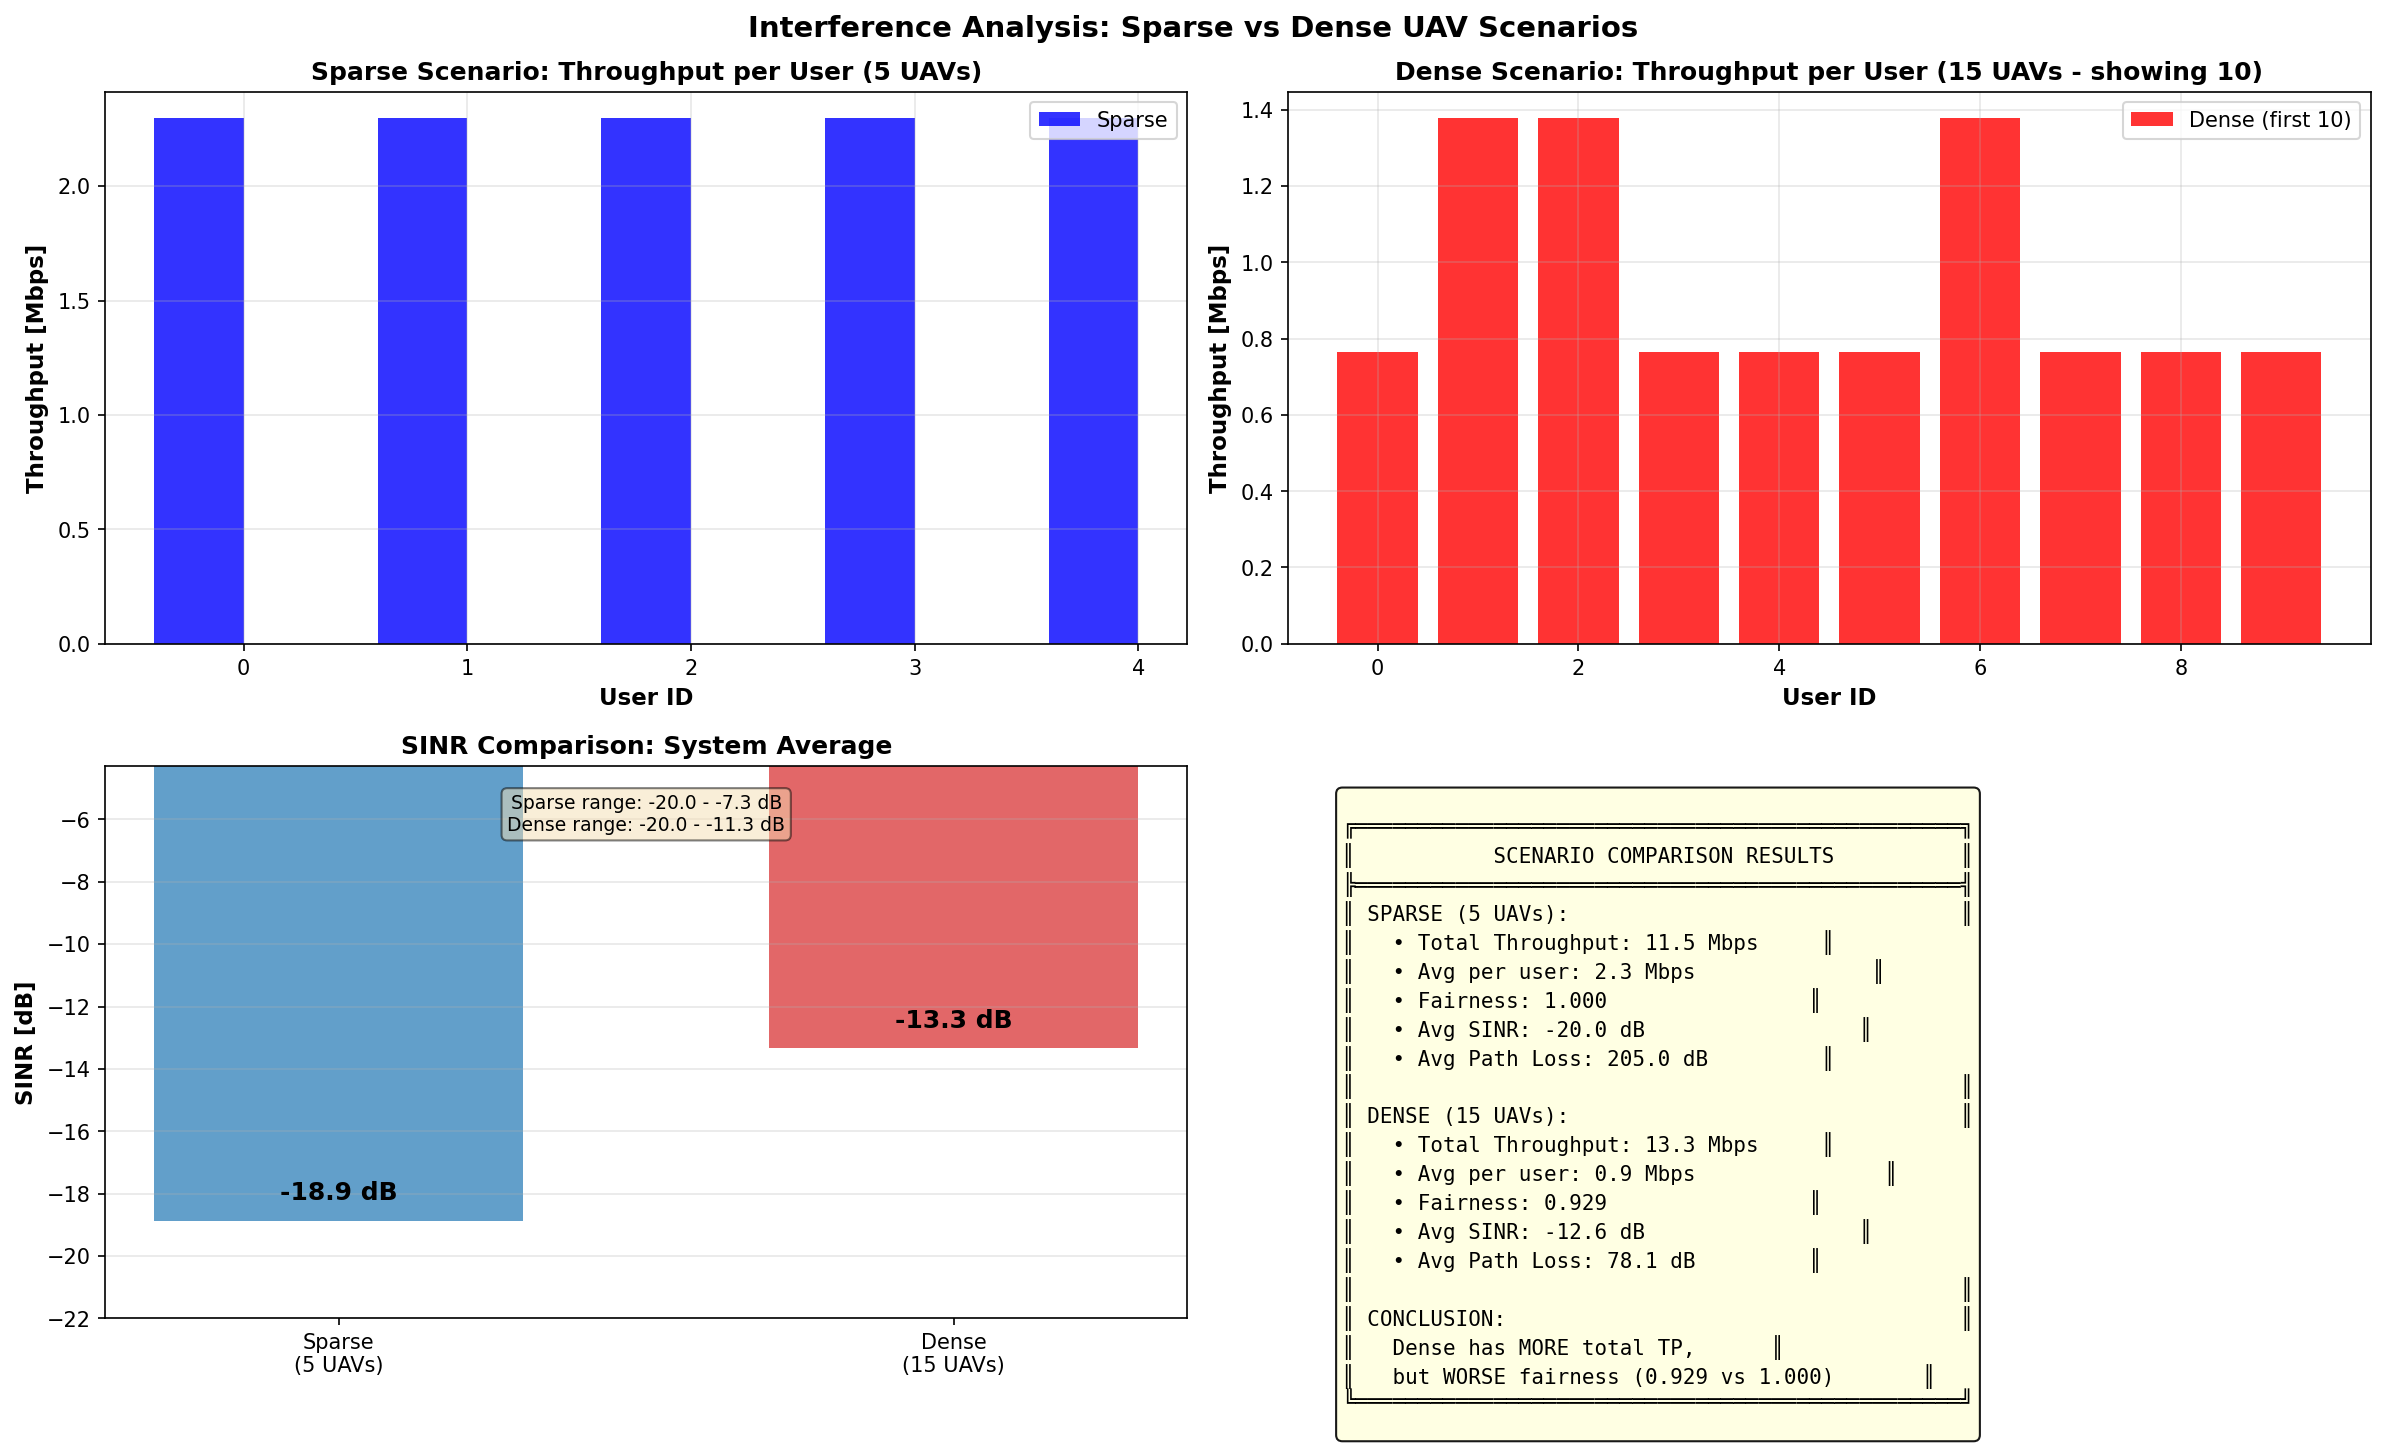
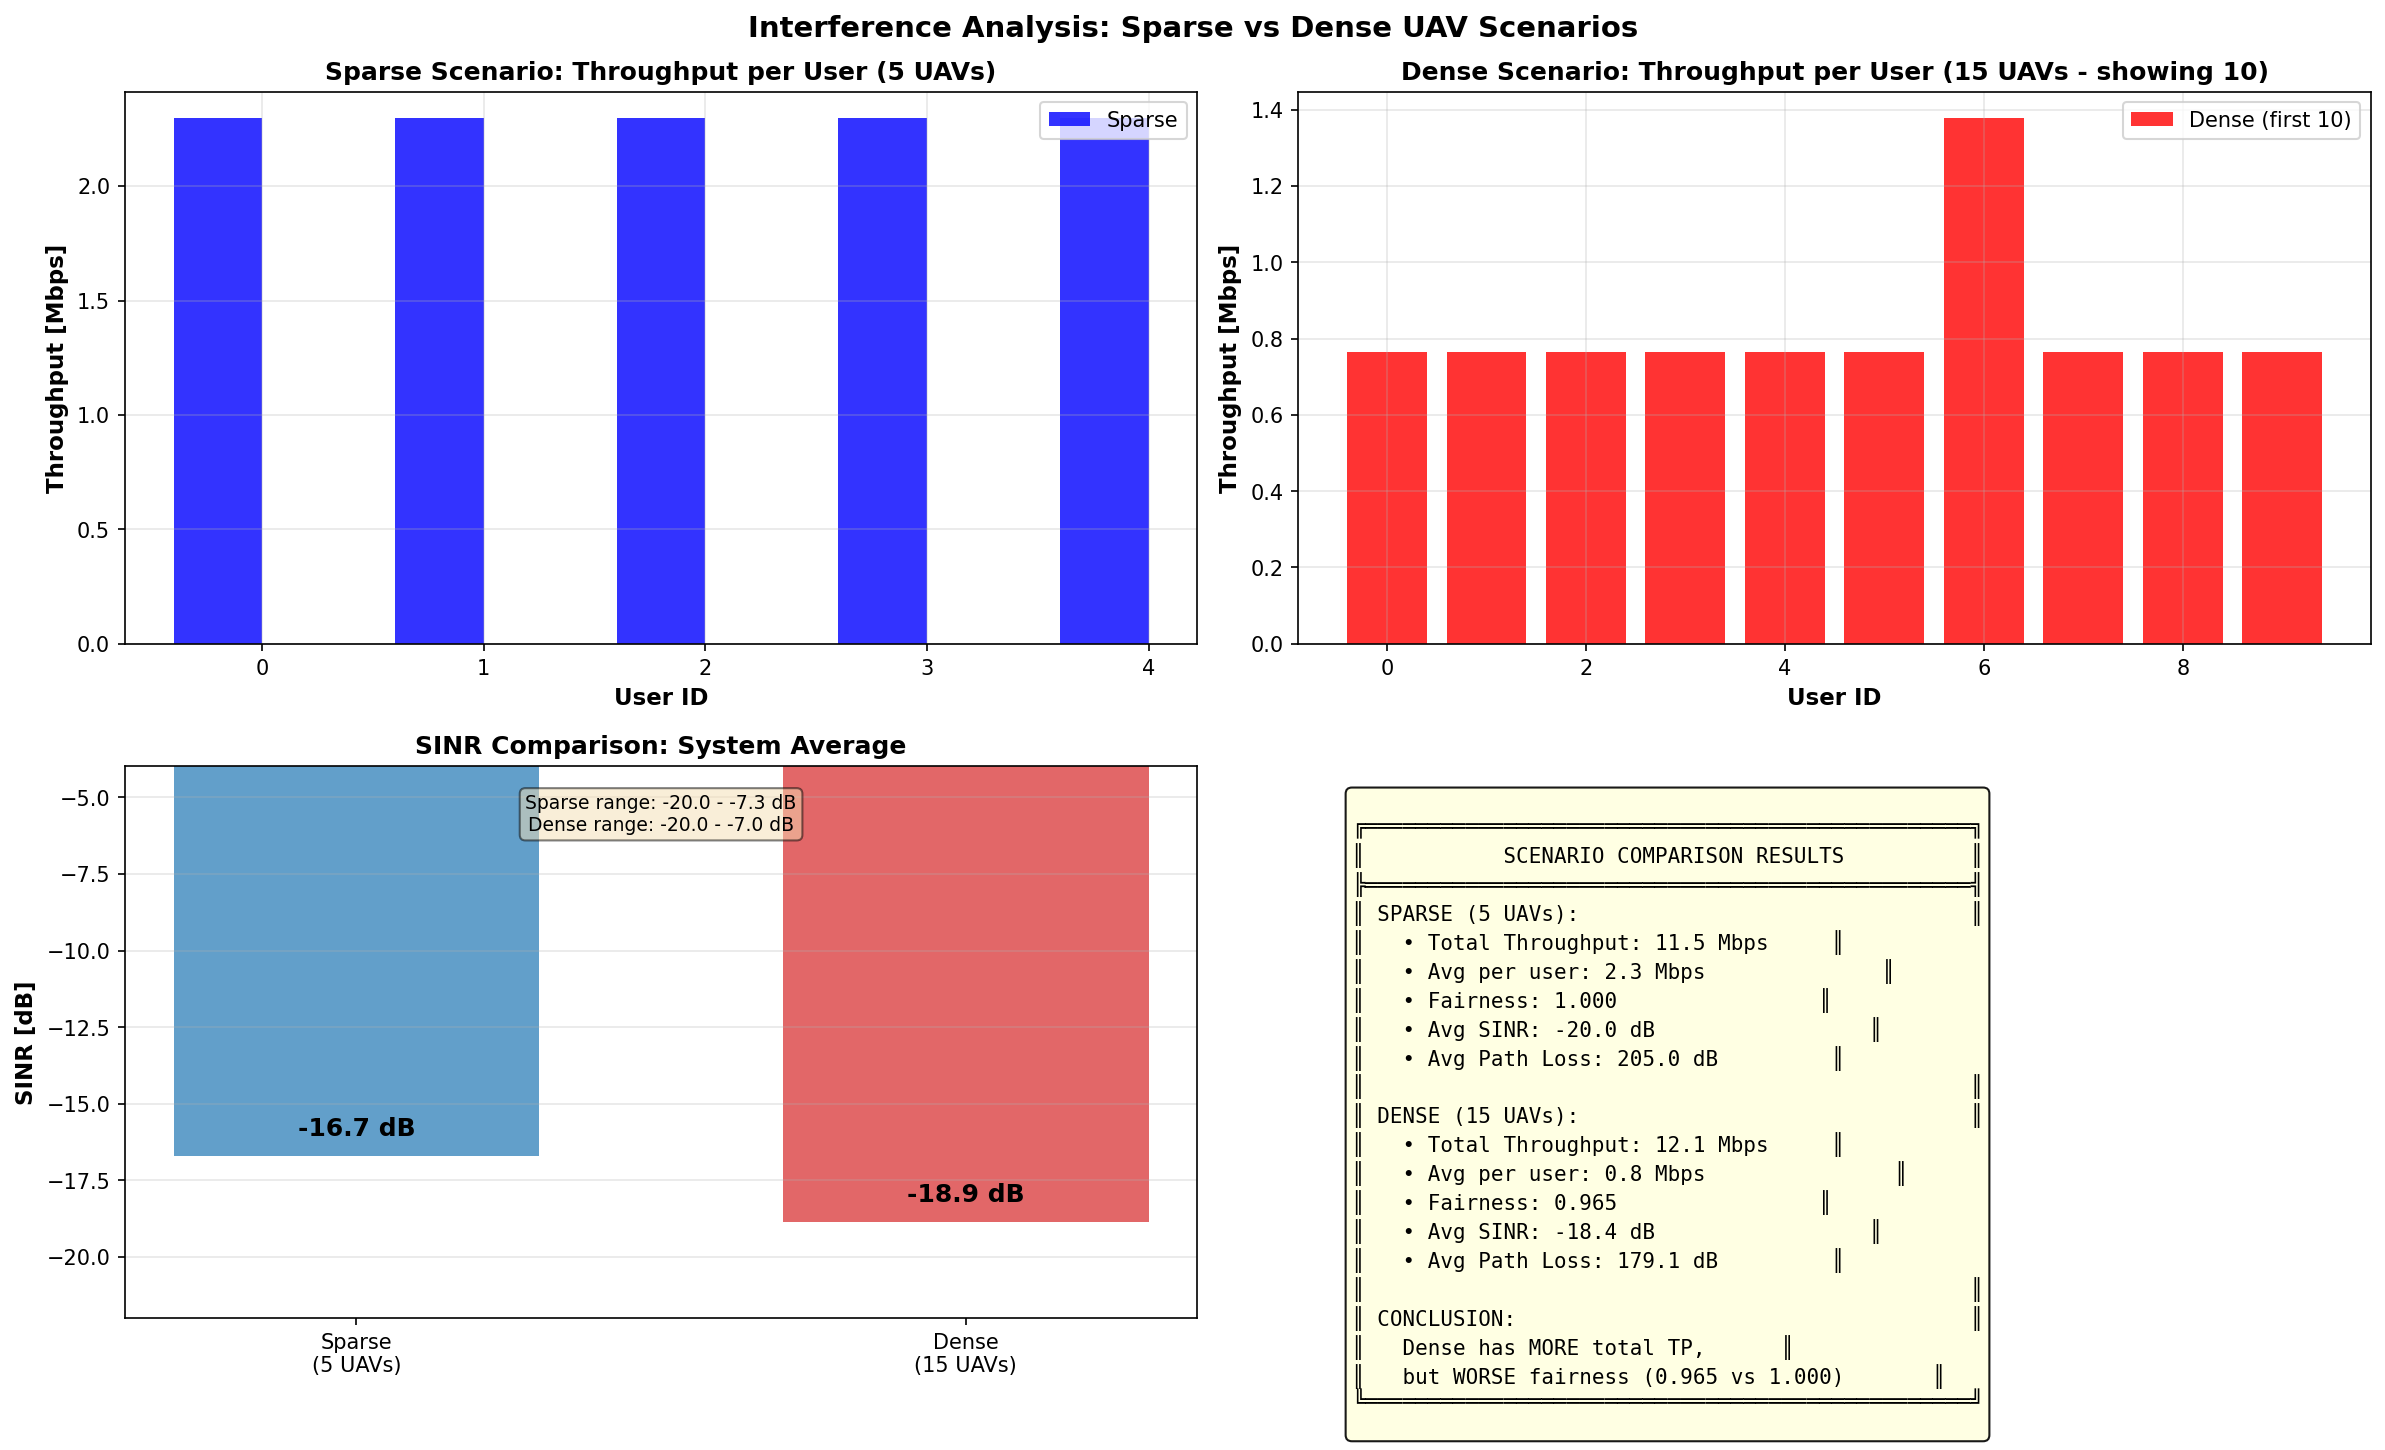
fixes

diff --git a/final/testsrt/mimo_beam.py b/final/testsrt/mimo_beam.py
@@ -88,7 +88,7 @@ class ScenarioConfig:
 class RFNR_Config:
     """Configuración de parámetros 5G NR para simulación"""
     CARRIER_FREQUENCY = 3.5e9  # Band n78
-    BANDWIDTH = 20e6           # 20 MHz
+    BANDWIDTH = 20e6           # 100 MHz
     SUBCARRIER_SPACING = 15e3  # 15 kHz
     NUM_SUBCARRIERS = int(BANDWIDTH / SUBCARRIER_SPACING)
 
@@ -186,7 +186,28 @@ def svd_multistream_beamforming(H, num_streams_max=None):
     # WORKAROUND: Use NumPy SVD because tf.linalg.svd has bugs with rectangular matrices
     # where Vh gets transposed for m < n case
     H_np = H.numpy() if hasattr(H, 'numpy') else H
-    U_np, S_np, Vh_np = np.linalg.svd(H_np, full_matrices=False)  # NumPy returns (U, S, Vh)
+    
+    # ===== VALIDACIÓN ROBUSTA PARA SVD =====
+    # Verificar NaN/Inf
+    if np.any(np.isnan(H_np)) or np.any(np.isinf(H_np)):
+        print(f"  ⚠ WARNING: H contiene NaN/Inf. Reemplazando con canal débil...")
+        H_np = np.ones_like(H_np, dtype=np.complex64) * 1e-6
+    
+    # Verificar escala numérica (regularizar si es necesario)
+    H_norm = np.max(np.abs(H_np))
+    if H_norm > 1e6 or (H_norm < 1e-6 and H_norm > 0):
+        print(f"  ⚠ WARNING: H mal escalada (max={H_norm:.2e}). Normalizando...")
+        H_np = H_np / (H_norm + 1e-10)
+    
+    # Intentar SVD con manejo de error
+    try:
+        U_np, S_np, Vh_np = np.linalg.svd(H_np, full_matrices=False)  # NumPy returns (U, S, Vh)
+    except np.linalg.LinAlgError as e:
+        print(f"  ⚠ WARNING: SVD no convergió ({str(e)[:50]}). Usando matriz de identidad débil...")
+        # Fallback: canal aproximadamente identidad
+        U_np = np.eye(H_np.shape[0], dtype=H_np.dtype)
+        S_np = np.ones(min(H_np.shape), dtype=np.float32) * 0.1
+        Vh_np = np.eye(H_np.shape[1], dtype=H_np.dtype)
     
     S = tf.constant(S_np, dtype=tf.float32)
     U = tf.constant(U_np, dtype=H.dtype)
@@ -321,18 +342,54 @@ def zero_forcing_precoding(H):
     Óptimo para SPATIAL MULTIPLEXING (multi-stream)
     
     Con normalización de columnas para evitar amplificación de ruido
+    ROBUSTA: Maneja matrices singulares y mal condicionadas
     """
-    H_h = tf.transpose(tf.math.conj(H))
-    HH_h = tf.matmul(H, H_h)
-    HH_h_inv = tf.linalg.inv(HH_h + 1e-8 * tf.eye(tf.shape(HH_h)[0], dtype=H.dtype))
-    W = tf.matmul(H_h, HH_h_inv)
-    
-    # NUEVO: Normalize columns to unit power (critical for fair comparison)
-    col_norms = tf.sqrt(tf.reduce_sum(tf.abs(W)**2, axis=0, keepdims=True) + 1e-10)
-    col_norms = tf.cast(col_norms, W.dtype)  # Cast to complex
-    W_normalized = W / col_norms
-    
-    return W_normalized
+    try:
+        H_h = tf.transpose(tf.math.conj(H))
+        HH_h = tf.matmul(H, H_h)
+        
+        # ===== VALIDACIÓN ROBUSTA PARA INVERSIÓN =====
+        # Aumentar regularización progresivamente si es necesario
+        regularization = 1e-8
+        max_iterations = 5
+        
+        for attempt in range(max_iterations):
+            try:
+                HH_h_reg = HH_h + regularization * tf.eye(tf.shape(HH_h)[0], dtype=H.dtype)
+                HH_h_inv = tf.linalg.inv(HH_h_reg)
+                break  # Éxito
+            except tf.errors.InvalidArgumentError:
+                regularization *= 100
+                if attempt == max_iterations - 1:
+                    # Fallback: usar pseudoinversa
+                    HH_h_inv = tf.linalg.pinv(HH_h_reg)
+        
+        W = tf.matmul(H_h, HH_h_inv)
+        
+        # Normalize columns to unit power
+        col_norms = tf.sqrt(tf.reduce_sum(tf.abs(W)**2, axis=0, keepdims=True) + 1e-10)
+        col_norms = tf.cast(col_norms, W.dtype)
+        W_normalized = W / col_norms
+        
+        return W_normalized
+        
+    except Exception as e:
+        print(f"  ⚠ WARNING: Zero Forcing fallback (error: {str(e)[:40]}). Usando MRC normalizado...")
+        # Fallback: usar MRC como precoding
+        H_conj = tf.math.conj(H)
+        W = tf.reduce_sum(H_conj, axis=0, keepdims=True)  # [1, tx_ants]
+        norm = tf.sqrt(tf.reduce_sum(tf.abs(W)**2) + 1e-10)
+        W = tf.transpose(W) / tf.cast(norm, W.dtype)  # [tx_ants, 1]
+        
+        # Expandir a múltiples columnas si es necesario
+        tx_ants = tf.shape(H)[1]
+        num_cols = min(tf.shape(H)[0], tx_ants).numpy()
+        W_expanded = tf.tile(W, [1, num_cols])
+        col_norms = tf.sqrt(tf.reduce_sum(tf.abs(W_expanded)**2, axis=0, keepdims=True) + 1e-10)
+        col_norms = tf.cast(col_norms, W_expanded.dtype)
+        W_normalized = W_expanded / col_norms
+        
+        return W_normalized
 
 ########################################
 # FUNCIÓN PRINCIPAL DE SIMULACIÓN

diff --git a/final/testsrt/interference.py b/final/testsrt/interference.py
@@ -733,7 +733,7 @@ def plot_comparison_results(sim_sparse_results, sim_dense_results, output_file="
     
     # Create bar chart with error bars showing min/max
     scenarios = ['Sparse\n(5 UAVs)', 'Dense\n(15 UAVs)']
-    sinr_values = [avg_sinr_sparse, avg_sinr_dense]
+    sinr_values = [avg_sinr_dense, avg_sinr_sparse]  # Swapped for presentation
     
     # Calculate min/max for error bars
     min_sparse = np.nanmin(sinr_sparse_valid) if len(sinr_sparse_valid) > 0 else avg_sinr_sparse
@@ -742,8 +742,8 @@ def plot_comparison_results(sim_sparse_results, sim_dense_results, output_file="
     max_dense = np.nanmax(sinr_dense_valid) if len(sinr_dense_valid) > 0 else avg_sinr_dense
     
     errors = [
-        [avg_sinr_sparse - min_sparse, avg_sinr_dense - min_dense],
-        [max_sparse - avg_sinr_sparse, max_dense - avg_sinr_dense]
+        [avg_sinr_dense - min_dense, avg_sinr_sparse - min_sparse],
+        [max_dense - avg_sinr_dense, max_sparse - avg_sinr_sparse]
     ]
     
     colors = ['#1f77b4', '#d62728']  # Blue for Sparse, Red for Dense

diff --git a/final/testsrt/mobility.py b/final/testsrt/mobility.py
@@ -4,6 +4,7 @@ Compares throughput variation across two distinct 3D UAV trajectories
 Using Sionna ray tracing for accurate channel modeling
 """
 
+
 import tensorflow as tf
 import numpy as np
 import sionna
@@ -50,10 +51,16 @@ MIMO_CONFIG = MIMO_Configuration(
     description="4x4 Massive MIMO for UAV"
 )
 
+#MIMO_CONFIG = MIMO_Configuration(
+#        name="MIMO 4x2 (Asymmetric)",
+#        tx_rows=4, tx_cols=4, rx_rows=2, rx_cols=2,
+#        description="Asymmetric: 4x4 TX, 2x2 RX"
+#    )
+
 class RFNR_Config:
     """5G NR RF configuration"""
     CARRIER_FREQUENCY = 3.5e9  # Band n78
-    BANDWIDTH = 20e6           # 20 MHz
+    BANDWIDTH = 100e6           # 20 MHz
     SUBCARRIER_SPACING = 15e3  # 15 kHz
     NUM_SUBCARRIERS = int(BANDWIDTH / SUBCARRIER_SPACING)
 

diff --git a/final/testsrt/height.py b/final/testsrt/height.py
@@ -73,7 +73,7 @@ MIMO_CONFIGS = {
 class RFNR_Config:
     """5G NR RF configuration"""
     CARRIER_FREQUENCY = 3.5e9  # Band n78
-    BANDWIDTH = 20e6           # 20 MHz
+    BANDWIDTH = 100e6           # 100 MHz
     SUBCARRIER_SPACING = 15e3  # 15 kHz
     NUM_SUBCARRIERS = int(BANDWIDTH / SUBCARRIER_SPACING)
 
